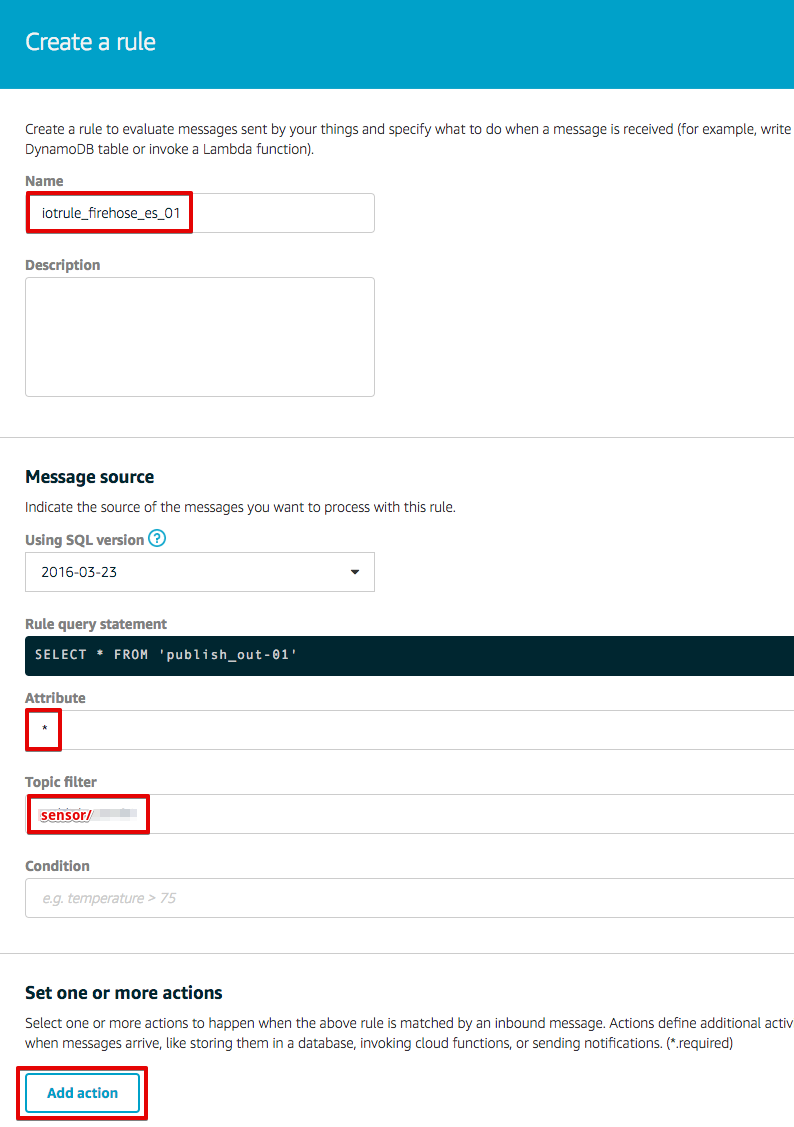
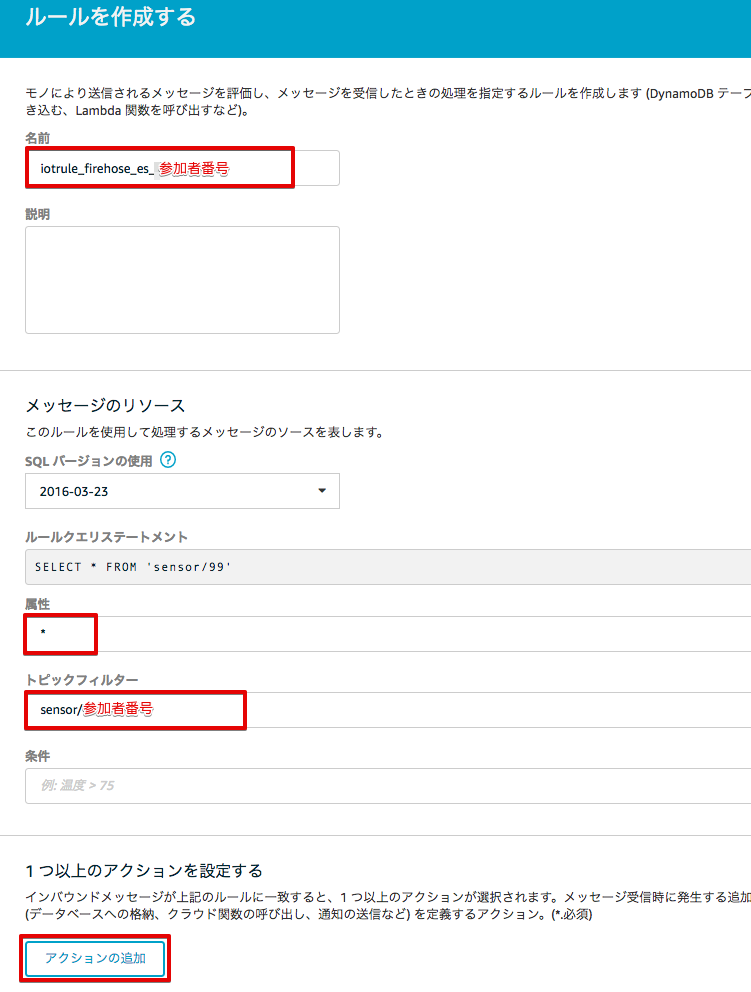
Update

diff --git a/docs/07.rst b/docs/07.rst
@@ -175,7 +175,7 @@ IAM ロール              新しい IAMロールの作成
 
 |
 
-Firehoseの設定画面で、[Next] をクリックして下さい。
+設定したIAM ロールが選択されていることを確認し、[Next] をクリックして下さい。
 
 .. image:: images/07/create-delivery-stream-4.png
 
@@ -202,21 +202,21 @@ Kinesis Firehose用のAWS IoT ルールを作成
 
 |
 
-ルールを作成します。メニューから[Rules]をクリックします。ルール一覧画面で、[Create]をクリックします。
+ルールを作成します。メニューから [ルール] をクリックします。ルール一覧画面で、[作成] をクリックします。
 
 .. image:: images/05/create-rule-2.png
 
 |
 
-下記の項目を入力し、[Add action]をクリックします。
+下記の項目を入力し、[アクションの追加] をクリックします。
 
-============= ====================================
-設定項目         値
-============= ====================================
-Name	         iotrule_firehose_es_<参加者番号>
-Attribute	     \*
-Topic filter   sensor/<参加者番号>
-============= ====================================
+================= ====================================
+設定項目              値
+================= ====================================
+名前	               iotrule_firehose_es_<参加者番号>
+属性	               \*
+トピックフィルター     sensor/<参加者番号>
+================= ====================================
 
 "*"は、半角の＊(アスタリスク)です。
 
